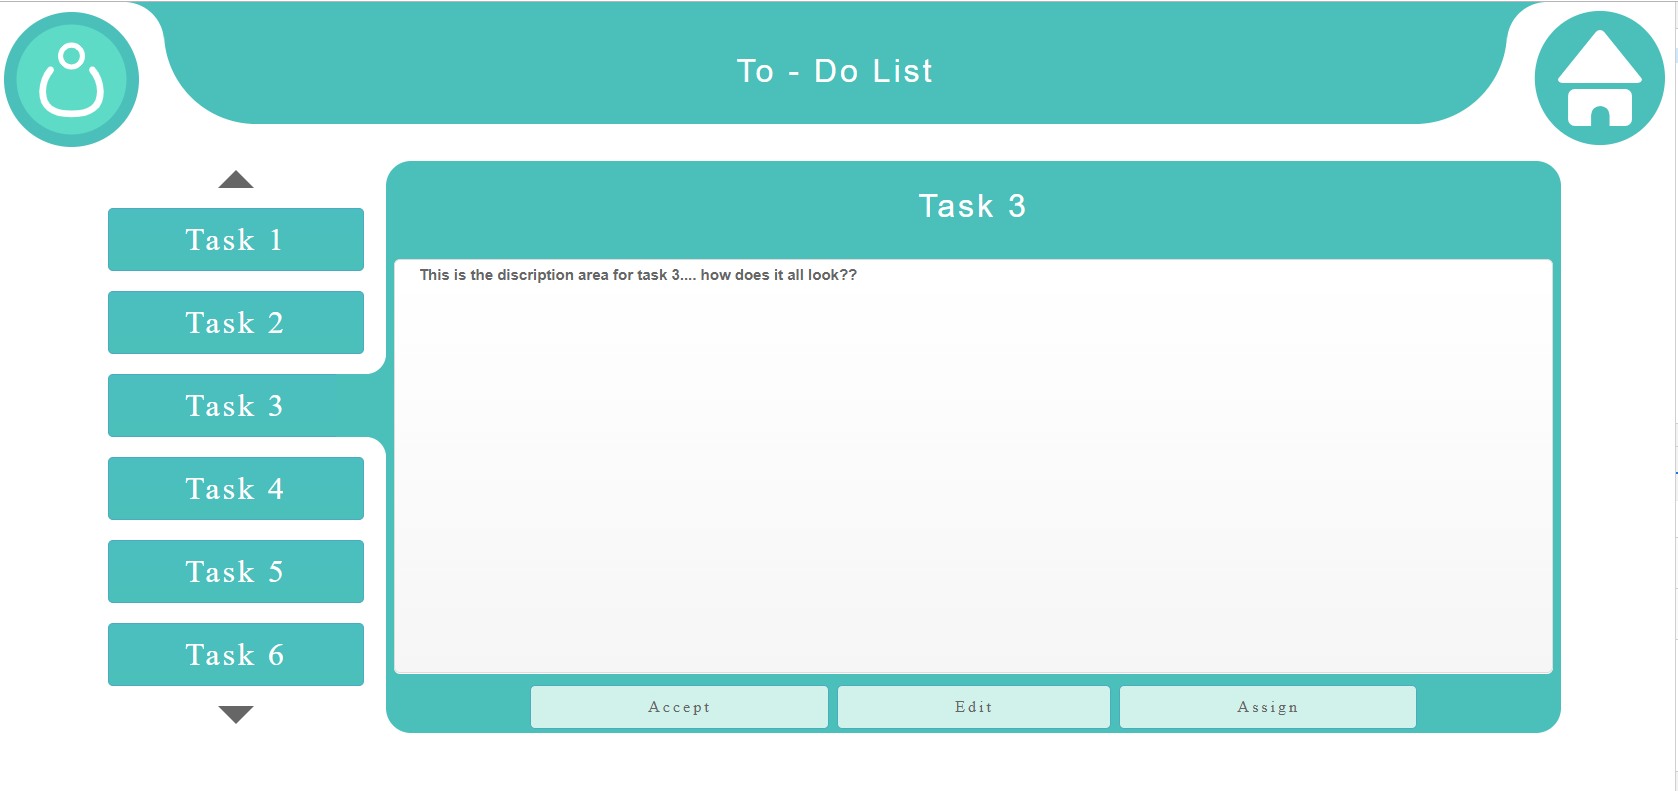
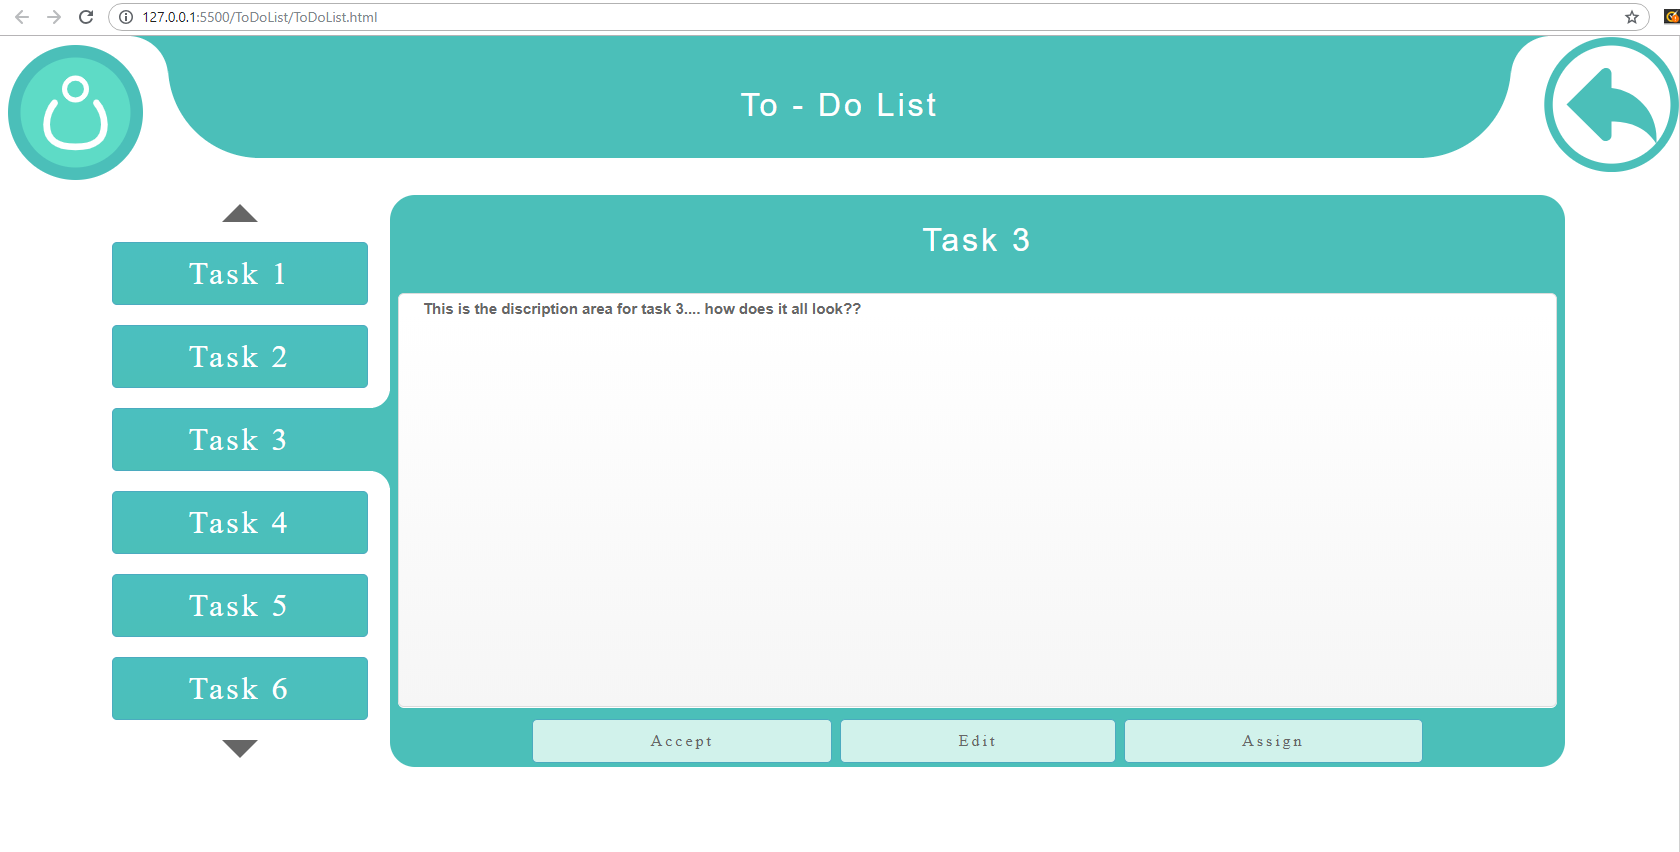
updated image of completed web-page, added a back button and uploaded it for use in other pages

Changed region(s): [[0.0, 0.0, 1.0, 1.0], [0.062, 0.5461, 0.9297, 0.9406]]

diff --git a/ToDoList/ToDoList.html b/ToDoList/ToDoList.html
@@ -15,7 +15,7 @@
             <img src="../svg-items/ProfileIcon.svg" alt="profile" width="135" height="135" id="PIcon">
         </a> 
         <h2>To - Do List</h2>
-        <img src="../svg-items/HomeIcon.svg" alt="home" width="150" height="150" id="HIcon">
+        <img src="../svg-items/back-icon.svg" alt="home" width="135" height="135" id="HIcon">
     </div>
 </header>
 
